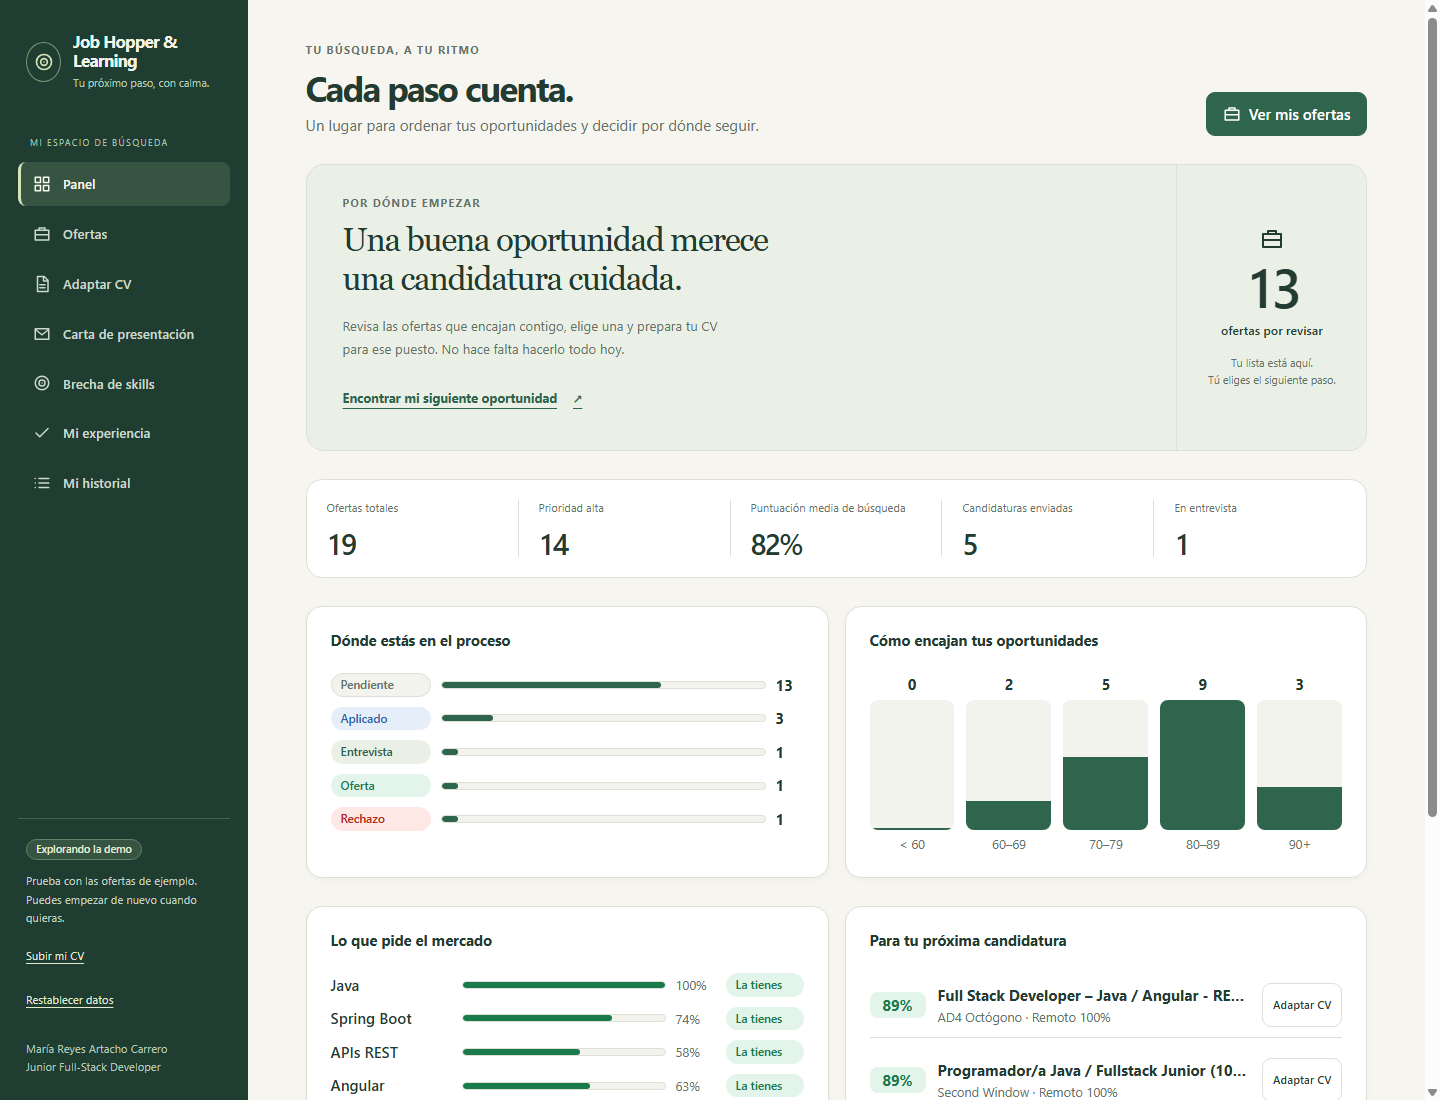
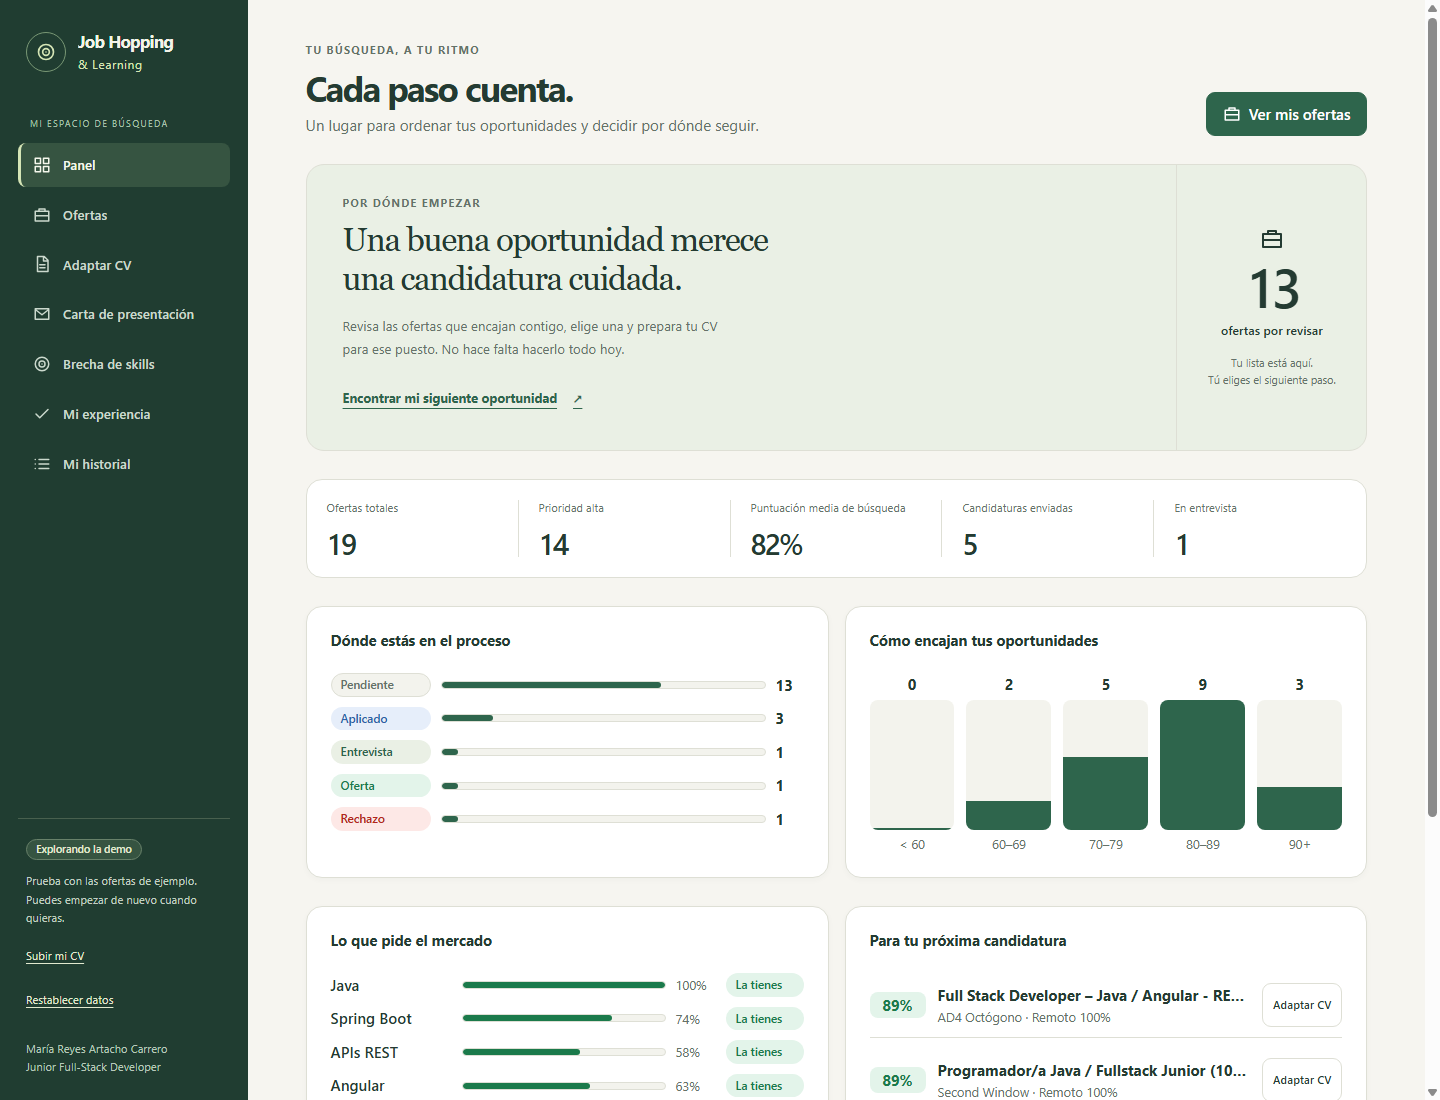
fix(branding): use Job Hopping with Learning on a second line
Correct Hopper to Hopping throughout visible copy, page titles, documentation, and the API title. Display Job Hopping above & Learning in workspace and public navigation. Refresh all seven screenshots so the landing preview no longer embeds the old JobHunter brand.

Validation: Angular lint and production builds passed; verified the sidebar screenshot and narrow-screen layouts.

Changed region(s): [[0.0, 0.0309, 0.1562, 0.4636]]

diff --git a/frontend/src/app/features/legal/aviso-legal.html b/frontend/src/app/features/legal/aviso-legal.html
@@ -22,7 +22,7 @@
     <section>
       <h2>2. Naturaleza del sitio</h2>
       <p>
-        Job Hopper &amp; Learning es un proyecto personal de portfolio, gratuito y sin fines comerciales. No se ofrece ningún
+        Job Hopping &amp; Learning es un proyecto personal de portfolio, gratuito y sin fines comerciales. No se ofrece ningún
         servicio de pago, no se muestra publicidad y no se obtiene ingreso alguno de su uso. No es una bolsa de
         empleo, no intermedia entre candidatos y empresas y no publica ofertas de trabajo reales de forma
         garantizada.
@@ -32,7 +32,7 @@
     <section>
       <h2>3. Condiciones de acceso y uso</h2>
       <p>
-        El acceso al sitio es libre y no requiere registro. El uso de Job Hopper &amp; Learning implica la aceptación de este aviso
+        El acceso al sitio es libre y no requiere registro. El uso de Job Hopping &amp; Learning implica la aceptación de este aviso
         legal y de las <a routerLink="/condiciones">condiciones de uso</a>. La persona usuaria se compromete a
         hacer un uso lícito y respetuoso de la aplicación y a no intentar alterar su funcionamiento.
       </p>
@@ -41,7 +41,7 @@
     <section>
       <h2>4. Propiedad intelectual</h2>
       <p>
-        El código fuente de Job Hopper &amp; Learning se distribuye bajo la licencia indicada en su repositorio. Los textos,
+        El código fuente de Job Hopping &amp; Learning se distribuye bajo la licencia indicada en su repositorio. Los textos,
         diseño y capturas de pantalla del sitio pertenecen a su titular, salvo indicación en contrario. Los
         nombres de tecnologías, marcas y productos mencionados pertenecen a sus respectivos propietarios y se
         citan únicamente con fines descriptivos.
@@ -55,7 +55,7 @@
     <section>
       <h2>5. Exclusión de garantías y responsabilidad</h2>
       <p>
-        Job Hopper &amp; Learning se ofrece «tal cual», sin garantías de disponibilidad, exactitud o adecuación a un fin concreto.
+        Job Hopping &amp; Learning se ofrece «tal cual», sin garantías de disponibilidad, exactitud o adecuación a un fin concreto.
         El titular no se responsabiliza de los errores de lectura del currículum, de las puntuaciones de
         compatibilidad estimadas ni de las decisiones que la persona usuaria tome a partir de ellas. Las
         estimaciones son orientativas y no sustituyen el criterio personal ni el de las empresas que seleccionan.

diff --git a/frontend/src/app/features/legal/privacidad.html b/frontend/src/app/features/legal/privacidad.html
@@ -8,7 +8,7 @@
     <section>
       <h2>1. En resumen</h2>
       <ul>
-        <li>Job Hopper &amp; Learning no tiene cuentas, ni base de datos, ni servidor que reciba tu currículum.</li>
+        <li>Job Hopping &amp; Learning no tiene cuentas, ni base de datos, ni servidor que reciba tu currículum.</li>
         <li>El archivo que subes se lee en tu navegador y se descarta; solo se guardan los campos que revisas y confirmas.</li>
         <li>Lo que guardas se queda en tu dispositivo y puedes borrarlo en cualquier momento.</li>
         <li>No usamos analítica, publicidad ni herramientas de terceros que te rastreen.</li>
@@ -25,7 +25,7 @@
 
     <section>
       <h2>3. Qué datos se tratan y dónde</h2>
-      <p>Al usar Job Hopper &amp; Learning con tu propio currículum, los datos que introduces son:</p>
+      <p>Al usar Job Hopping &amp; Learning con tu propio currículum, los datos que introduces son:</p>
       <ul>
         <li>
           <strong>Contenido de tu CV:</strong> nombre, titular profesional, localidad, correo electrónico, enlaces a
@@ -122,7 +122,7 @@
       <p>
         Los datos guardados en el navegador se validan al leerlos y el sitio aplica una política de seguridad de
         contenidos restrictiva que impide cargar código de terceros. Aun así, quien tenga acceso a tu dispositivo o
-        a tu sesión de navegador podría ver lo que has guardado: no uses Job Hopper &amp; Learning en equipos compartidos sin
+        a tu sesión de navegador podría ver lo que has guardado: no uses Job Hopping &amp; Learning en equipos compartidos sin
         borrar tus datos al terminar.
       </p>
     </section>

diff --git a/frontend/src/app/features/legal/cookies.html b/frontend/src/app/features/legal/cookies.html
@@ -8,7 +8,7 @@
     <section>
       <h2>1. Qué usamos</h2>
       <p>
-        Job Hopper &amp; Learning <strong>no utiliza cookies</strong>. Para recordar tu trabajo entre visitas usa el almacenamiento
+        Job Hopping &amp; Learning <strong>no utiliza cookies</strong>. Para recordar tu trabajo entre visitas usa el almacenamiento
         local del navegador (<code>localStorage</code>), una tecnología equivalente que se rige por el mismo
         marco normativo (art. 22.2 LSSI-CE). Todo lo que se guarda permanece en tu dispositivo y no se envía a
         ningún servidor.
@@ -42,7 +42,7 @@
         El almacenamiento descrito es de uso estrictamente necesario para prestar la función que solicitas
         expresamente (conservar tu CV y tus ofertas para que no tengas que subirlos cada vez). Esa finalidad está
         exenta del deber de obtener consentimiento (art. 22.2 LSSI-CE y art. 5.3 de la Directiva ePrivacy).
-        Job Hopper &amp; Learning no instala cookies ni identificadores de analítica, publicidad, redes sociales o terceros, y
+        Job Hopping &amp; Learning no instala cookies ni identificadores de analítica, publicidad, redes sociales o terceros, y
         carga todos sus recursos desde el propio sitio. Si algún día se añadiera algo de ese tipo, se pediría tu
         consentimiento antes y esta política se actualizaría.
       </p>

diff --git a/frontend/src/app/features/legal/condiciones.html b/frontend/src/app/features/legal/condiciones.html
@@ -6,9 +6,9 @@
     </header>
 
     <section>
-      <h2>1. Qué es Job Hopper &amp; Learning</h2>
+      <h2>1. Qué es Job Hopping &amp; Learning</h2>
       <p>
-        Job Hopper &amp; Learning es una herramienta gratuita, de código abierto y de carácter personal para organizar una búsqueda
+        Job Hopping &amp; Learning es una herramienta gratuita, de código abierto y de carácter personal para organizar una búsqueda
         de empleo en el sector IT: puntúa ofertas contra tu perfil, ayuda a adaptar tu CV, genera borradores de
         cartas de presentación y señala las carencias técnicas más relevantes. Es un proyecto de portfolio de
         María Reyes Artacho Carrero (<a routerLink="/aviso-legal">aviso legal</a>).
@@ -36,7 +36,7 @@
       <p>
         El currículum y los datos que introduces son tuyos. Declaras que tienes derecho a usarlos y que no subes
         documentos de terceros sin su permiso. Eres responsable de la veracidad de lo que incluyes en los CV y
-        cartas que generes y envíes. Job Hopper &amp; Learning prioriza la experiencia que figura en tu perfil y no la inventa,
+        cartas que generes y envíes. Job Hopping &amp; Learning prioriza la experiencia que figura en tu perfil y no la inventa,
         pero el resultado final lo revisas y lo firmas tú.
       </p>
     </section>

diff --git a/frontend/src/app/shared/public-shell.ts b/frontend/src/app/shared/public-shell.ts
@@ -10,9 +10,9 @@ import { IconComponent } from './icon.component';
   template: `
     <a class="skip-link" href="#public-content">Ir al contenido</a>
     <header class="top">
-      <a class="brand" routerLink="/" aria-label="Job Hopper &amp; Learning, inicio">
+      <a class="brand" routerLink="/" aria-label="Job Hopping &amp; Learning, inicio">
         <span class="logo"><app-icon name="target" [size]="18" /></span>
-        <strong>Job Hopper &amp; Learning</strong>
+        <span><strong>Job Hopping</strong><small>&amp; Learning</small></span>
       </a>
       <nav aria-label="Principal">
         <a routerLink="/" fragment="como-funciona">Cómo funciona</a>
@@ -23,7 +23,7 @@ import { IconComponent } from './icon.component';
     <main id="public-content" tabindex="-1"><ng-content /></main>
     <footer class="foot">
       <p>
-        Job Hopper &amp; Learning es un proyecto personal de portfolio de María Reyes Artacho Carrero. Gratuito y sin cuentas:
+        Job Hopping &amp; Learning es un proyecto personal de portfolio de María Reyes Artacho Carrero. Gratuito y sin cuentas:
         tu CV se queda en tu navegador.
       </p>
       <nav aria-label="Información legal">

diff --git a/frontend/src/app/shell/app-shell.scss b/frontend/src/app/shell/app-shell.scss
@@ -9,8 +9,8 @@
 }
 .brand { display: flex; align-items: center; gap: 12px; text-decoration: none; color: inherit; padding: 0 8px; }
 .brand strong { display: block; font-size: 1.1rem; line-height: 1.15; letter-spacing: -0.03em; }
-.brand small { color: var(--muted); font-size: 0.72rem; }
-.logo { display: grid; place-items: center; width: 40px; height: 40px; border: 1px solid #799875; border-radius: 50%; color: #d5e5b6; }
+.brand small { display: block; color: #d5e5b6; font-size: 0.8rem; letter-spacing: 0.05em; margin-top: 4px; }
+.logo { display: grid; place-items: center; width: 40px; height: 40px; flex-shrink: 0; border: 1px solid #799875; border-radius: 50%; color: #d5e5b6; }
 .nav-label { color: #a8c0ac; font-size: 0.62rem; letter-spacing: 0.13em; padding: 16px 12px 0; margin-bottom: -16px; }
 nav { display: flex; flex-direction: column; gap: 6px; }
 nav a { display: flex; align-items: center; gap: 12px; padding: 12px; border-radius: 8px; color: #cbd9cd; text-decoration: none; font-size: 0.88rem; font-weight: 500; border-left: 3px solid transparent; }

diff --git a/frontend/src/app/shared/public-shell.scss b/frontend/src/app/shared/public-shell.scss
@@ -4,7 +4,8 @@
 .top, .foot { background: #203d31; color: #f4f4e9; padding: 14px clamp(16px, 4vw, 56px); }
 .top { display: flex; align-items: center; justify-content: space-between; flex-wrap: wrap; gap: 12px 24px; min-height: 68px; }
 .brand { display: flex; align-items: center; gap: 10px; color: inherit; text-decoration: none; min-height: 44px; }
-.brand strong { font-size: 1.25rem; letter-spacing: -0.04em; }
+.brand small { display: block; color: #d5e5b6; font-size: 0.8rem; letter-spacing: 0.05em; margin-top: 2px; }
+.brand strong { display: block; font-size: 1.25rem; letter-spacing: -0.04em; }
 .logo { display: grid; place-items: center; width: 36px; height: 36px; border: 1px solid #799875; border-radius: 50%; color: #d5e5b6; }
 nav { display: flex; align-items: center; flex-wrap: wrap; gap: 4px 20px; }
 nav a { display: inline-flex; align-items: center; min-height: 44px; color: #e3eccf; text-decoration: none; font-size: 0.9rem; }

diff --git a/frontend/src/app/features/landing/landing.html b/frontend/src/app/features/landing/landing.html
@@ -18,7 +18,7 @@
       src="img/panel.png"
       width="1440"
       height="900"
-      alt="Panel de Job Hopper &amp; Learning con el embudo de candidaturas, la compatibilidad media y las tecnologías más pedidas"
+      alt="Panel de Job Hopping &amp; Learning con el embudo de candidaturas, la compatibilidad media y las tecnologías más pedidas"
     />
   </section>
 
@@ -67,7 +67,7 @@
     <div>
       <h2>Tus datos se quedan contigo</h2>
       <p class="muted">
-        Job Hopper &amp; Learning funciona por completo en tu navegador. No hay servidor que reciba tu currículum, ni base de datos,
+        Job Hopping &amp; Learning funciona por completo en tu navegador. No hay servidor que reciba tu currículum, ni base de datos,
         ni cuenta que crear.
       </p>
       <ul class="ticks">

diff --git a/frontend/src/app/shell/app-shell.html b/frontend/src/app/shell/app-shell.html
@@ -1,11 +1,11 @@
 <div class="shell">
   <a class="skip-link" href="#main-content">Ir al contenido</a>
   <aside class="side no-print">
-    <a class="brand" routerLink="/panel" aria-label="Job Hopper &amp; Learning, ir al panel">
+    <a class="brand" routerLink="/panel" aria-label="Job Hopping &amp; Learning, ir al panel">
       <span class="logo"><app-icon name="target" [size]="20" /></span>
       <span>
-        <strong>Job Hopper &amp; Learning</strong>
-        <small>Tu próximo paso, con calma.</small>
+        <strong>Job Hopping</strong>
+        <small>&amp; Learning</small>
       </span>
     </a>
 

diff --git a/frontend/src/index.html b/frontend/src/index.html
@@ -2,7 +2,7 @@
 <html lang="es">
 <head>
   <meta charset="utf-8">
-  <title>Job Hopper &amp; Learning · Búsqueda de empleo IT</title>
+  <title>Job Hopping &amp; Learning · Búsqueda de empleo IT</title>
   <base href="/">
   <meta name="viewport" content="width=device-width, initial-scale=1">
   <meta http-equiv="Content-Security-Policy" content="default-src 'self'; script-src 'self'; style-src 'self' 'unsafe-inline'; img-src 'self' data:; font-src 'self'; connect-src 'self'; object-src 'none'; base-uri 'self'; form-action 'self'">

diff --git a/frontend/src/app/app.routes.ts b/frontend/src/app/app.routes.ts
@@ -1,6 +1,6 @@
 import { Routes } from '@angular/router';
 
-const SITE = 'Job Hopper & Learning';
+const SITE = 'Job Hopping & Learning';
 
 export const routes: Routes = [
   {

diff --git a/backend/src/job_tracker/main.py b/backend/src/job_tracker/main.py
@@ -34,7 +34,7 @@ def create_app(settings: Settings | None = None) -> FastAPI:
     settings = settings or get_settings()
     docs = settings.docs_enabled
     app = FastAPI(
-        title="Job Hopper & Learning API",
+        title="Job Hopping & Learning API",
         version="0.1.0",
         lifespan=lifespan,
         docs_url="/docs" if docs else None,
